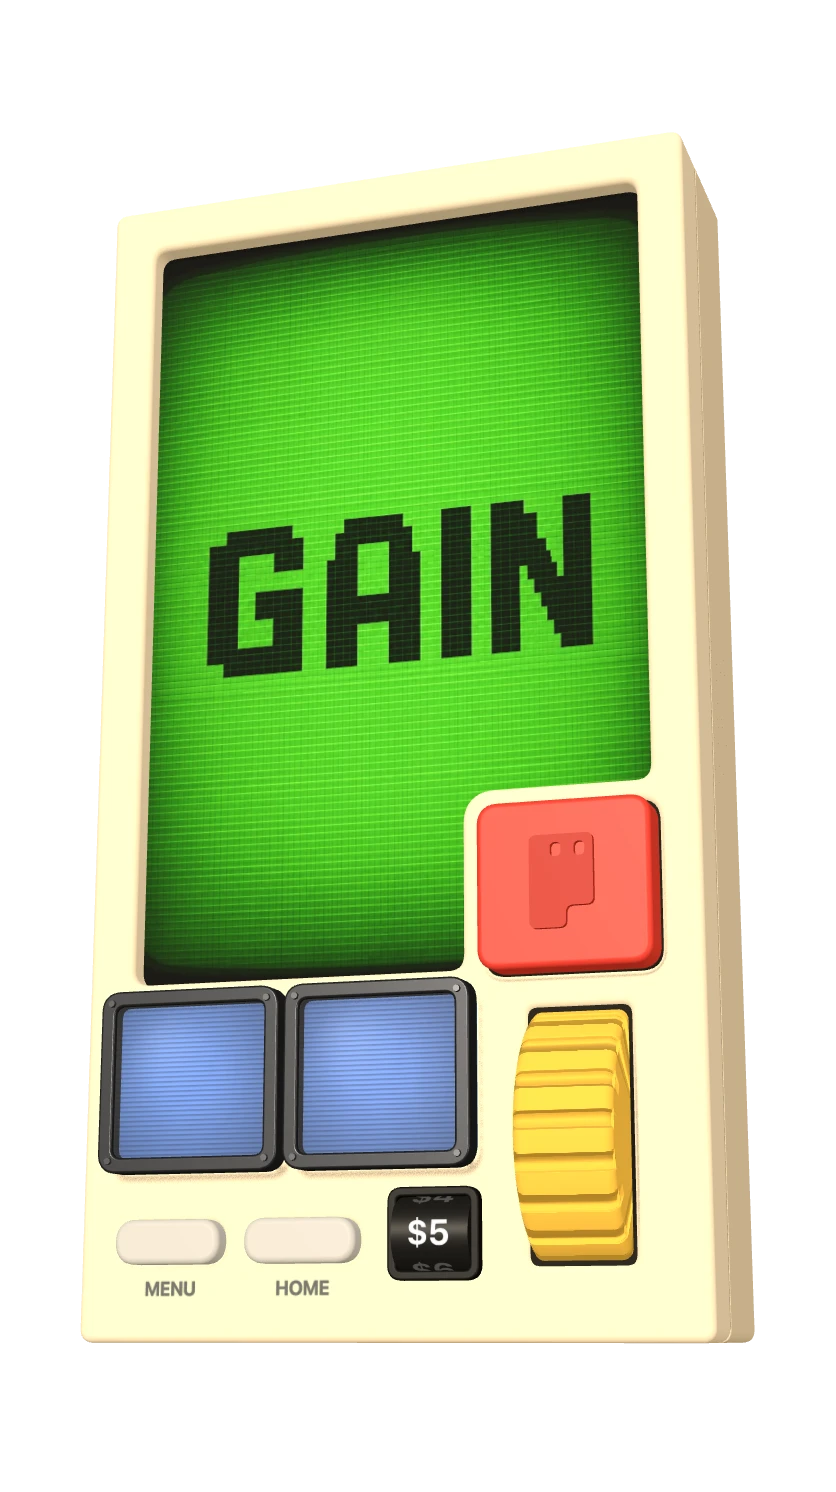
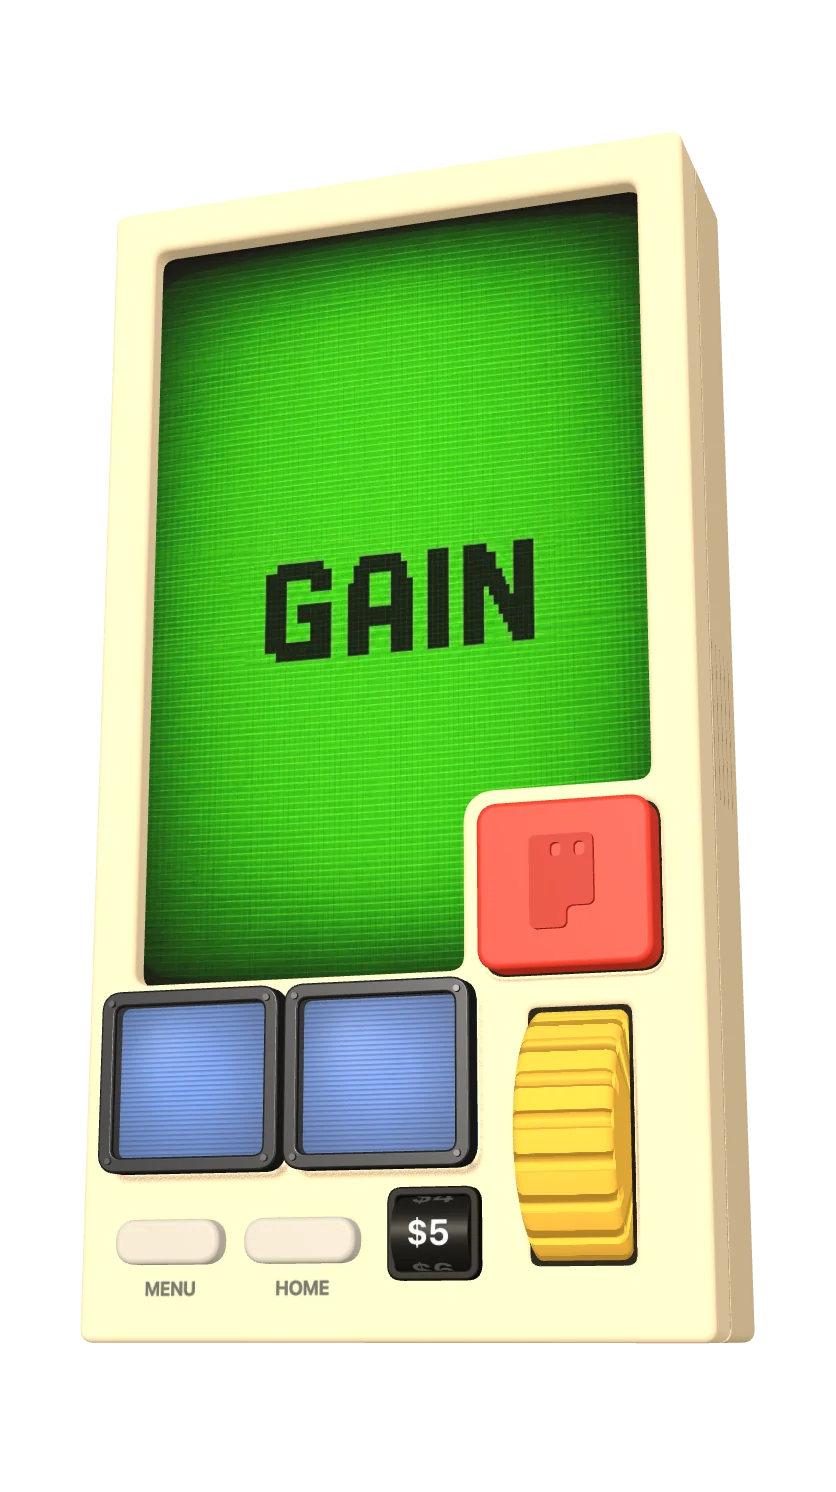
feat: warm-and-park the live ConsoleCanvas so CustomizeStudio opens instantly without rebuilding a second 3D device, replacing JPG assets with WebP, switching console shot format to WebP, bumping SHOT_VERSION, and cleaning up debug logging
- Replaced pnl-rekt-screen.jpg and pnl-win-screen.jpg with WebP versions in public/assets/pnl-card
- Switched SCREEN_ART path in consoleShot.tsx from .jpg to .webp for the live screen art
- Bumped SHOT_VERSION from 2 to 3 so stale IDB shots expire on pose or asset changes
- Added performance.now() markers (renderer, body+back+details, internals, buttons, actionScreens) inside ConsoleCanvas for build profiling
- Rewired applyActiveRef in ConsoleCanvas to park the canvas at intro start pose when deactivated so the next reveal replays the zoom-out intro without rebuilding
- Replaced all debug console.log calls with [bld] markers or removed them from ConsoleCanvas and CustomizeStudio
- Added a visible-unmount hook in CustomizeStudio that resets draft, tab, and exiting state whenever the studio closes
- Changed customize pre-warm to run once per session via requestIdleCallback on first menu settle instead of rebuilding each open

Changed region(s): [[0.1866, 0.1542, 0.7775, 0.6783]]

diff --git a/web/src/routes/_app.tsx b/web/src/routes/_app.tsx
@@ -315,15 +315,32 @@ function AppLayout() {
     return () => window.clearTimeout(t)
   }, [phase])
 
-  // No Customize pre-warm on menu open: building the studio is a second 3D device (~0.9s synchronous Three.js) that froze scroll/close if built while the drawer was open.
-  // The Customize tap mounts it HIDDEN instead (customizePrepared): the WebGL build runs behind the drawer's compositor-driven fall while the studio holds the exact live app pose (introFromApp).
-  // Reveal waits for the route to land (drawer gone), so the live device appears to zoom back out into the workshop, the mirror of the Done outro.
-
+  // The Customize studio is a second 3D device (~1s synchronous Three.js build), so it's built ONCE per
+  // session and kept mounted, parked hidden at 0fps (render-on-demand no-ops while inactive), making every
+  // Customize open an instant reveal. The warm is idle-scheduled a beat after the menu first settles, so
+  // the one-time block lands while the user reads the menu, never during the drawer rise or the tap.
+  // Reveal still waits for the route to land (drawer gone): the studio holds the exact live app pose
+  // (introFromApp) and zooms back out into the workshop, the mirror of the Done outro.
   useEffect(() => {
-    if (!onMenu && !onCustomize && !customizeHandoff) {
-      setCustomizePrepared(false)
+    if (!onMenu || customizePrepared) return
+    let idle = 0
+    const t = window.setTimeout(() => {
+      const w = window as Window & { requestIdleCallback?: (cb: () => void, opts?: { timeout: number }) => number }
+      if (w.requestIdleCallback) idle = w.requestIdleCallback(() => setCustomizePrepared(true), { timeout: 2500 })
+      else setCustomizePrepared(true)
+    }, 700)
+    return () => {
+      window.clearTimeout(t)
+      const w = window as Window & { cancelIdleCallback?: (id: number) => void }
+      if (idle) w.cancelIdleCallback?.(idle)
     }
-  }, [customizeHandoff, onCustomize, onMenu])
+  }, [onMenu, customizePrepared])
+
+  // Leaving the app (sign-out, onboarding detour) drops the warm studio; the JSX below unmounts it with
+  // the phase, so the flag must reset too or re-entry would build it at login, mid walk-in.
+  useEffect(() => {
+    if (phase !== 'app') setCustomizePrepared(false)
+  }, [phase])
 
   const showCustomizeStudio = onCustomize || customizeHandoff
   const mountCustomizeStudio = showCustomizeStudio || customizePrepared
@@ -446,18 +463,14 @@ function AppLayout() {
                 void navigate({ to: '/games' })
               }}
               onOutroComplete={() => {
-                console.log('[dbg] app outro complete')
                 setCustomizeHandoff(false)
                 // The rig may have just changed: re-render the share card's console shot while idle.
                 // A cancel lands on the cached shot, so this only mounts WebGL after a real change.
                 warmConsoleShot()
               }}
-              onCancel={() => {
-                // Drop the prepared canvas so the next open rebuilds fresh and replays the zoom-out intro
-                // (a kept instance would sit at the settled studio pose and reveal as a hard cut).
-                setCustomizePrepared(false)
-                void navigate({ to: '/menu' })
-              }}
+              // The studio stays warm across opens; deactivation parks the canvas back at the intro
+              // start pose, so the next reveal replays the zoom-out without a rebuild.
+              onCancel={() => void navigate({ to: '/menu' })}
             />
           )}
           {/* The drawer slides itself away (closeTo) when Customize is tapped; the studio builds hidden behind the fall and reveals once the route lands. */}

diff --git a/web/src/components/console/ConsoleCanvas.tsx b/web/src/components/console/ConsoleCanvas.tsx
@@ -167,7 +167,8 @@ export default function ConsoleCanvas({
     const canvas = canvasRef.current
     const hint = hintRef.current
     if (!canvas || !hint) return
-    if (customize) console.log('[dbg] scene BUILD (customize)')
+    const BT0 = performance.now()
+    const mark = (label: string) => { if (customize) console.log('[bld]', label, Math.round(performance.now() - BT0)) }
 
     const CREAM = 0xe9dbbf,
       RED = 0xd63a2e,
@@ -192,6 +193,7 @@ export default function ConsoleCanvas({
     renderer.shadowMap.autoUpdate = false
     renderer.outputColorSpace = THREE.SRGBColorSpace
     const MAXANISO = renderer.capabilities.getMaxAnisotropy()
+    mark('renderer')
 
     // Render-on-demand gate: set true whenever the device changes (label/view update, resize) so the
     // loop paints once; live animation (press/knob) drives its own frames. Idle = no GPU work.
@@ -504,12 +506,14 @@ export default function ConsoleCanvas({
     )
     backDetails.place(BACK_HALF_W, backHalfH(), backFaceLocalZ)
     backDetails.rebuildSeam(screenExt, wy(1130) + screenExt / 2)
+    mark('body+back+details')
 
     // Exposed guts for the transparent "Clear" skin (PCB, copper coil, battery, ribbon, glyph light strips) between the two shells. Built once and hidden; applyTheme reveals it, riding the body center so it tracks the screen-stretch like the body does.
     // Full guts (incl. the top-frame band) only in showcase contexts; the live game screen can grow into that band, so a played clear skin keeps just the always-safe bottom + side internals.
     const fullInternals = debug || customize || exportMode
     const internals = createInternals(device, '#e5322b', fullInternals)
     internals.group.position.set(wx(585), wy(1130) + screenExt / 2, 0)
+    mark('internals')
 
     const SVG_W = 1539,
       SVG_H = 629
@@ -759,6 +763,7 @@ export default function ConsoleCanvas({
       wy,
     )
     const bmOrigin = bm.map((m) => ({ x: m.position.x, y: m.position.y }))
+    mark('buttons')
 
     // Frame the two action caps as mini LCD screens: a machined metal bezel + a glossy acrylic window
     // over each. The cap stays bm[i] (the raycast + press target); we just drive its color like a panel.
@@ -768,6 +773,7 @@ export default function ConsoleCanvas({
     const spinView = customize || exportMode
     const { dispose: disposeActionScreens, glow: actionGlow } =
       createActionScreens(device, bm, ACTION_IDX, buttons, BTN_PX, wx, wy, spinView)
+    mark('actionScreens')
 
     // A binding's color lights the screen (LONG → green, SHORT → red); everything else falls through to actionHex below. The loop adds the press flash onto baseEmissive.
     // Hues stay pure-ish so the screen's own emissive glow keeps the color true instead of washing toward white on self-light.
@@ -2371,7 +2377,6 @@ export default function ConsoleCanvas({
     }
 
     applyOutroRef.current = (on: boolean) => {
-      if (customize) console.log('[dbg] arm outro', on)
       if (on) {
         introT = 1 // settle instantly so the outro starts from the rest pose
         // Stretch the device to the live game height up front so the screen we zoom into is exactly
@@ -2420,7 +2425,23 @@ export default function ConsoleCanvas({
           },
         })
       : null
-    applyActiveRef.current = () => {
+    // A kept-warm studio parks at the intro start pose whenever it deactivates, so the next reveal's
+    // first frame is already the live app pose and the zoom-out replays like a fresh open, no rebuild.
+    let wasActive = false
+    applyActiveRef.current = (on: boolean) => {
+      if (customize && !on && wasActive) {
+        introT = 0
+        orbitYaw = 0
+        orbitPitch = 0
+        floatPhase = 0
+        focusPart = null
+        focusCur.mix = 0
+        device.position.y = 0
+        device.rotation.set(0, 0, 0)
+        relayout(responsiveScreenExt())
+        placeCustomizeCamera()
+      }
+      wasActive = on
       dirty = true
     }
     applyActiveRef.current(activeRef.current)
@@ -2902,11 +2923,8 @@ export default function ConsoleCanvas({
     // Visually identical here, and stops the full-scene render stealing the game's frames, this is what made flappy stutter with the device repainting at 30fps under it.
     const LIGHTSHOW_FRAME = 1 / 15
 
-    let dbgFrames = 0
     function loop(time?: number) {
       rafId = requestAnimationFrame(loop)
-      if (customize && ++dbgFrames % 10 === 0)
-        console.log('[dbg] hb f', dbgFrames, 't', Math.round(performance.now()), 'active', activeRef.current, 'outroActive', outroActive, 'outroT', outroT.toFixed(2))
       timer.update(time)
       const dt = Math.min(timer.getDelta(), 0.05)
       let animating = false
@@ -2968,7 +2986,6 @@ export default function ConsoleCanvas({
           animating = true
         }
         if (outroActive) {
-          if (Math.round(outroT * 100) % 25 === 0) console.log('[dbg] outroT', outroT.toFixed(2), 'fade', outroFade.toFixed(2))
           // Screen stays off through the whole snap, so the device lands in the exact black
           // "game loading" state. The fade-in belongs to the game, not the studio.
           setScreenPower(0)
@@ -2982,7 +2999,6 @@ export default function ConsoleCanvas({
             if (outroFade < 1) animating = true
             else if (!outroFired) {
               outroFired = true
-              console.log('[dbg] canvas outro fired, cb?', !!propsRef.current.onOutroComplete)
               propsRef.current.onOutroComplete?.()
             }
           }
@@ -3220,7 +3236,6 @@ export default function ConsoleCanvas({
     loop()
 
     return () => {
-      if (customize) console.log('[dbg] scene DISPOSE (customize)')
       cancelAnimationFrame(rafId)
       timer.dispose()
       canvas.removeEventListener('pointerdown', onPointerDown)
@@ -3283,7 +3298,6 @@ export default function ConsoleCanvas({
 
   // Arm / disarm the Done outro.
   useEffect(() => {
-    if (customize) console.log('[dbg] outro prop ->', outro)
     applyOutroRef.current(outro)
   }, [outro])
 

diff --git a/web/src/components/console/CustomizeStudio.tsx b/web/src/components/console/CustomizeStudio.tsx
@@ -42,13 +42,6 @@ export function CustomizeStudio({
   onCancel: () => void
 }) {
   const reduced = useReducedMotion()
-  useEffect(() => {
-    console.log('[dbg] studio MOUNT')
-    return () => console.log('[dbg] studio UNMOUNT')
-  }, [])
-  useEffect(() => {
-    console.log('[dbg] studio visible', visible, 'active', active)
-  }, [visible, active])
   // Local draft: nothing touches the saved rig until Done. Cancel needs no snapshot.
   const [draft, setDraft] = useState<ConsoleCustom>(initialCustom)
   const [tab, setTab] = useState<TabId>('presets')
@@ -64,6 +57,21 @@ export function CustomizeStudio({
     const t = setTimeout(() => setReady(true), 90)
     return () => clearTimeout(t)
   }, [reduced])
+
+  // The studio stays mounted between opens (the canvas parks hidden at 0fps), so on the hide edge
+  // rewind to a fresh state: draft back to the saved rig, tab home, outro disarmed. The canvas does
+  // its own park (ConsoleCanvas applyActiveRef), so the next reveal replays the whole zoom-out.
+  const initialRef = useRef(initialCustom)
+  initialRef.current = initialCustom
+  const wasVisible = useRef(visible)
+  useEffect(() => {
+    if (wasVisible.current && !visible) {
+      setDraft(initialRef.current)
+      setTab('presets')
+      setExiting(false)
+    }
+    wasVisible.current = visible
+  }, [visible])
 
   // Esc cancels, same as the X.
   useEffect(() => {

diff --git a/web/src/lib/consoleShot.tsx b/web/src/lib/consoleShot.tsx
@@ -25,7 +25,7 @@ export const CONSOLE_SHOT_POSE = { x: (-14 * Math.PI) / 180, y: (-18 * Math.PI) 
 
 // The screen art per card tone, painted onto the screen mesh.
 export type ShotScreen = 'win' | 'rekt'
-const SCREEN_ART = (s: ShotScreen) => `/assets/pnl-card/pnl-${s}-screen.jpg`
+const SCREEN_ART = (s: ShotScreen) => `/assets/pnl-card/pnl-${s}-screen.webp`
 // Stock-classic rigs ship baked (same tool, same pose): the majority skips WebGL entirely, and the
 // same asset is the WebGL-dead fallback in playCard.
 const CLASSIC_SRC = (s: ShotScreen) => `/assets/pnl-card/console-classic-${s}.webp`
@@ -38,7 +38,7 @@ const SCREEN_AR = 1110 / 1650
 const SHOT_W = 836
 const SHOT_H = 1492
 // Bump when the pose, screen art, box size, or ConsoleCanvas visuals change: stale IDB shots die on version.
-const SHOT_VERSION = 2
+const SHOT_VERSION = 3
 // Skin/metallic textures load async after the scene's first paint; the fixed settle covers them
 // (mirrors /dev/export's 900ms), the non-blank poll covers a slow first frame.
 const SETTLE_MS = 1000